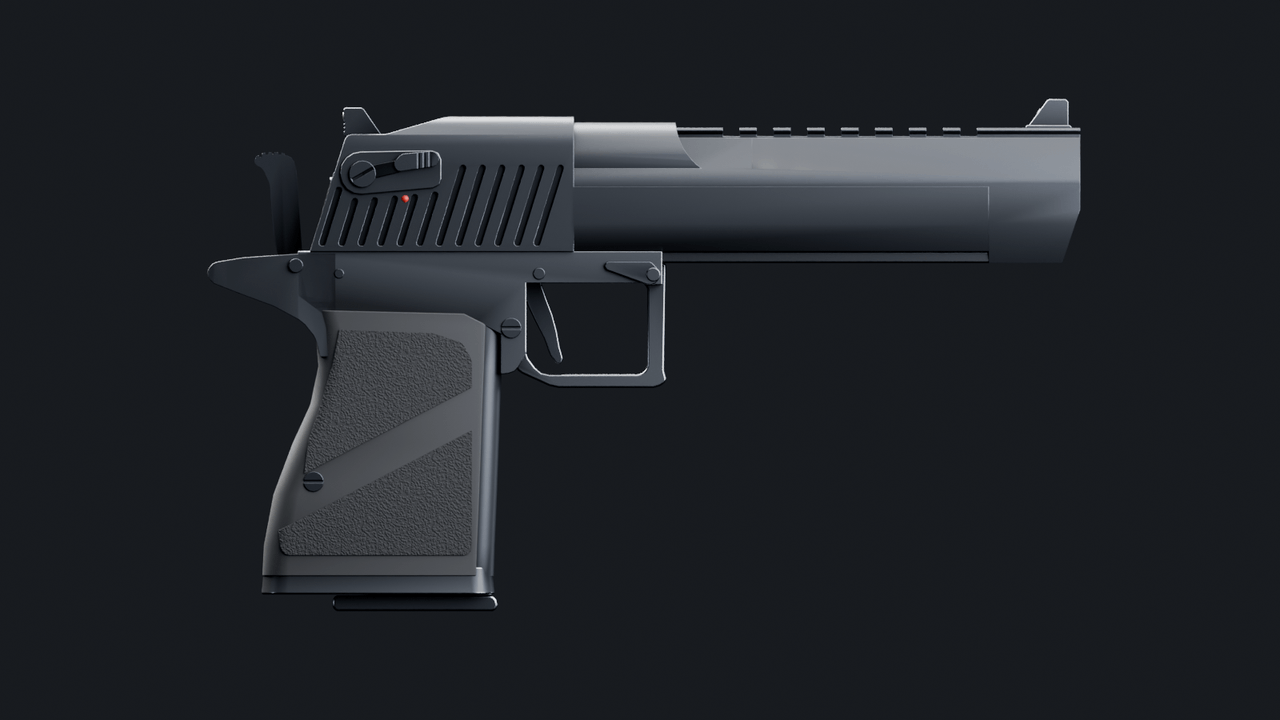
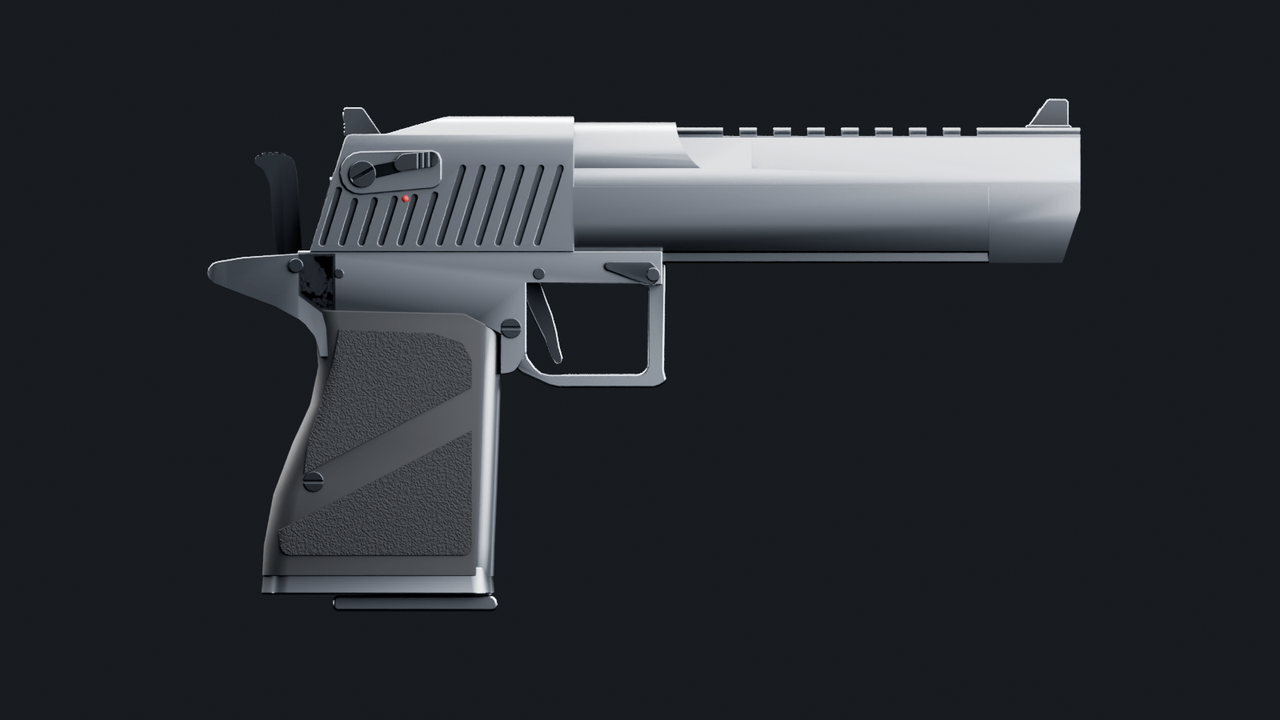
feat(deagle): satin stainless finish, matte black sights
the black nitride finish reflected about 3 percent of its surroundings and
read as a black shape once the viewmodel took the world's light. stainless
is the default now, --finish black still builds the old one.

Changed region(s): [[0.1562, 0.1528, 0.8438, 0.8556]]

diff --git a/tools/blender/weapons/build_deagle.py b/tools/blender/weapons/build_deagle.py
@@ -33,6 +33,8 @@ def arg(name, default=None):
 
 
 QUICK = "--quick" in ARGS
+# stainless (default) or black
+FINISH = arg("--finish", "stainless")
 OUT = arg("--out", os.path.join(W.TMP, "deagle_raw.glb"))
 RENDERS = arg("--renders", None)
 
@@ -182,13 +184,30 @@ def inside_polygon(p, poly):
 
 def make_materials():
     pebble = W.pebble_normal_map("tex_grip_pebble", size=256, count=1500, seed=11)
-    return {
+    if FINISH == "black":
         # black nitride on the slide and barrel, a rougher black on the frame,
         # bare steel on the controls and on worn convex edges
-        "dark": W.material("mat_steel_dark", 0x34363a, 0.36, 0.8),
-        "frame": W.material("mat_gunmetal", 0x383a3e, 0.44, 0.75),
-        "steel": W.material("mat_steel", 0x55585e, 0.32, 1.0),
-        "worn": W.material("mat_steel_worn", 0x8a8e94, 0.26, 1.0),
+        metals = {
+            "dark": W.material("mat_steel_dark", 0x34363a, 0.36, 0.8),
+            "frame": W.material("mat_gunmetal", 0x383a3e, 0.44, 0.75),
+            "steel": W.material("mat_steel", 0x55585e, 0.32, 1.0),
+            "worn": W.material("mat_steel_worn", 0x8a8e94, 0.26, 1.0),
+        }
+        metals["sight"] = metals["dark"]
+    else:
+        # satin stainless slide and barrel, a rougher satin frame as the second
+        # tone, darker steel controls, polished edges and matte black sights.
+        # the black finish lost the gun against bright maps once the viewmodel
+        # took the world's light
+        metals = {
+            "dark": W.material("mat_stainless", 0xa3a7ad, 0.3, 1.0),
+            "frame": W.material("mat_stainless_frame", 0x8e9298, 0.38, 1.0),
+            "steel": W.material("mat_steel", 0x62666c, 0.3, 1.0),
+            "worn": W.material("mat_steel_worn", 0xc8ccd2, 0.22, 1.0),
+            "sight": W.material("mat_sight_black", 0x2a2b2e, 0.5, 0.6),
+        }
+    return {
+        **metals,
         "rubber": W.material("mat_rubber", 0x1c1c1e, 0.62, 0.0),
         "grip": W.material("mat_grip", 0x161617, 0.85, 0.0, normal_image=pebble, normal_strength=0.9),
         "dot": W.material("mat_sight_dot", 0xe9e6dc, 0.45, 0.0),
@@ -248,10 +267,11 @@ def build_slide(M):
 
     # rear sight: vertical back face with anti-glare lines, square notch, two dots
     rs0, rs1, rtop = 2.4, 14.5, 18.8
+    s = M["sight"]
     sight = side("rear_sight", [(rs0, DECK_Z - 0.5), (rs1, DECK_Z - 0.5), (rs0 + 6.0, rtop, 0.9), (rs0, rtop, 0.5)],
-                 -11.0, 11.0, d)
-    cuts = [cube("c", -1.9, 1.9, rs0 - 1.0, rs1 + 1.0, rtop - 3.0, rtop + 1.0, d)]
-    cuts += [cube("c", -12.0, 12.0, rs0 - 1.0, rs0 + 0.35, z - 0.28, z + 0.28, d) for z in (11.7, 12.9, 14.1)]
+                 -11.0, 11.0, s)
+    cuts = [cube("c", -1.9, 1.9, rs0 - 1.0, rs1 + 1.0, rtop - 3.0, rtop + 1.0, s)]
+    cuts += [cube("c", -12.0, 12.0, rs0 - 1.0, rs0 + 0.35, z - 0.28, z + 0.28, s) for z in (11.7, 12.9, 14.1)]
     W.boolean(sight, cuts)
     bevel_worn(sight, M["worn"], 0.3)
     dots = [rod_y("rear_dot", sx * 5.6, 16.4, [(1.0, rs0 - 0.25), (1.0, rs0 + 0.6)], 12, M["dot"]) for sx in (1, -1)]
@@ -353,10 +373,10 @@ def build_barrel(M):
     fs_top, fs_run = 21.5, 6.0
     blade = side("front_sight", [(y0, RAIL_TOP - 0.4), (y1, RAIL_TOP - 0.4), (y1, fs_top - 0.7, 0.5),
                                  (y1 - 0.8, fs_top, 0.4), (y0 + fs_run, fs_top, 1.0), (y0, RAIL_TOP + 0.8, 0.8)],
-                 -1.8, 1.8, d)
+                 -1.8, 1.8, M["sight"])
     bevel_worn(blade, M["worn"], 0.25)
     base = side("front_sight_base", [(y0 - 1.0, RAIL_TOP - 0.4), (y1 + 1.0, RAIL_TOP - 0.4), (y1 + 1.0, RAIL_TOP + 0.9, 0.5),
-                                     (y0 - 1.0, RAIL_TOP + 0.9, 0.5)], -6.0, 6.0, d)
+                                     (y0 - 1.0, RAIL_TOP + 0.9, 0.5)], -6.0, 6.0, M["sight"])
     bevel_worn(base, M["worn"], 0.25)
     slope = math.atan2(fs_top - RAIL_TOP - 0.8, fs_run)
     dot = rod_y("front_dot", 0, 0, [(0.85, -0.45), (0.85, 0.3)], 12, M["dot"])

diff --git a/docs/assets/weapons.md b/docs/assets/weapons.md
@@ -78,8 +78,11 @@ describes its gun.
 
 | material | used for |
 |----------|----------|
-| `mat_steel_dark` | black nitride: Deagle slide, barrel, rail, sights, magazine; AWP receiver, barrel, brake, rail, bipod |
-| `mat_gunmetal` | Deagle frame, guard, beavertail and grip core (a rougher black, the second tone) |
+| `mat_stainless` | satin stainless: Deagle slide, barrel, rail, magazine (the default finish) |
+| `mat_stainless_frame` | Deagle frame, guard, beavertail and grip core (rougher satin, the second tone) |
+| `mat_sight_black` | Deagle front and rear sights, matte black so the dots read |
+| `mat_steel_dark` | black nitride: AWP receiver, barrel, brake, rail, bipod; the Deagle's slide, barrel, sights and magazine with `--finish black` |
+| `mat_gunmetal` | the Deagle frame with `--finish black` |
 | `mat_steel` | pins, screws, levers, safety, hammer, trigger, Deagle bolt head and rear plate, polished AWP bolt |
 | `mat_steel_worn` | convex bevel faces on metal parts |
 | `mat_grip` | Deagle raised stippled grip fields |
@@ -139,11 +142,16 @@ the same scale and matched the outline to within 2 or 3 mm.
   the safety levers (the slide is 32 mm). The bore is 158 mm from the breech
   face to the muzzle.
 - Triangles: 16,406 (body 9,294, slide 5,274, hammer 554, trigger 200, mag
-  1,084). 14,478 vertices. The file is 241 KB optimized (758 KB raw). The
+  1,084). 14,478 vertices. The file is 244 KB optimized (760 KB raw). The
   earlier model was 11,040 triangles and 186 KB.
-- Materials: the metals are metallic 0.75 to 1 at roughness 0.26 to 0.46 with
-  dark base colours. The rubber is dielectric at roughness 0.62 (smooth) and
-  0.85 (stippled). None of it is tuned to one environment map.
+- Finish: satin stainless by default, with a rougher satin frame, darker steel
+  controls and matte black sights. `--finish black` builds the black nitride
+  version. The black one read as a near black shape against the bright maps
+  once the viewmodel took the world's light (a 0.03 reflectance metal
+  reflects almost nothing), so stainless is the shipped finish.
+- Materials: the metals are metallic 0.6 to 1 at roughness 0.22 to 0.5. The
+  rubber is dielectric at roughness 0.62 (smooth) and 0.85 (stippled). None
+  of it is tuned to one environment map.
 - Nodes: `deagle` (root), then `body` (static mesh), `slide`, `hammer`,
   `trigger`, `mag` (pivot empties with `_mesh` children), and the sockets.
 - The build prints a clearance check. It poses the hammer fired and the
